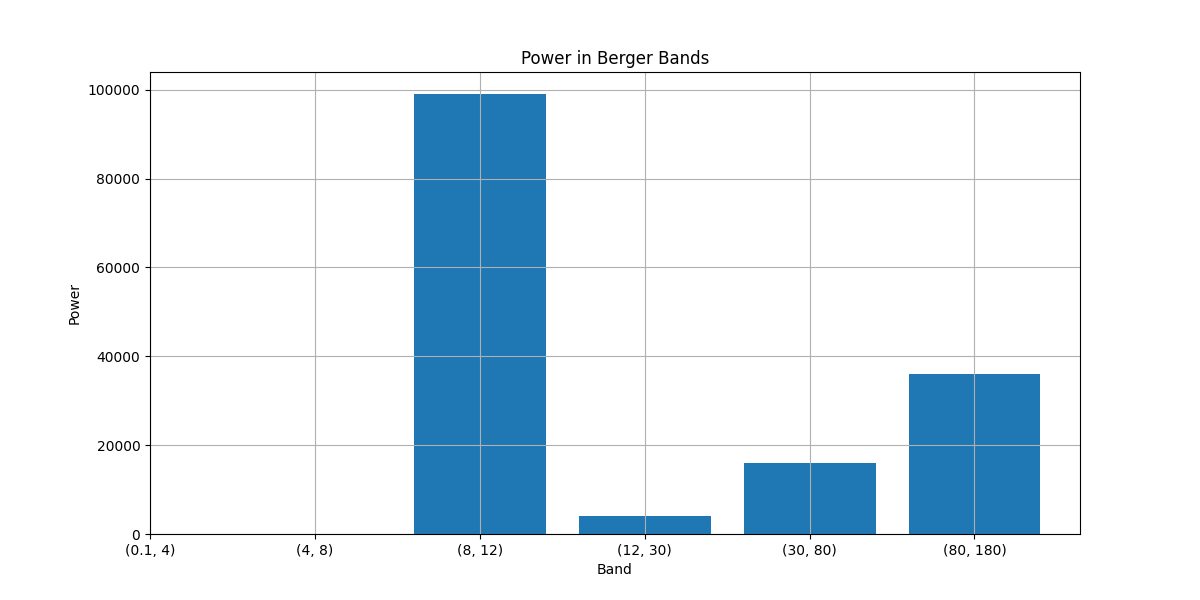
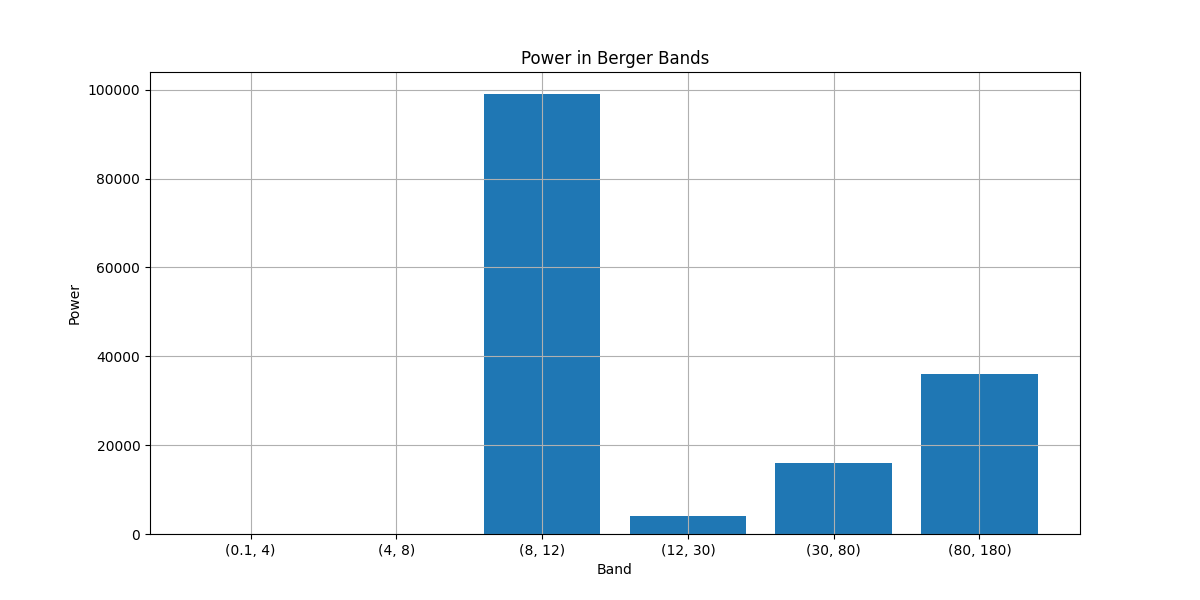
working seizure pipe

diff --git a/High_level_simulations/shiao/test_seizure_pipeline.py b/High_level_simulations/shiao/test_seizure_pipeline.py
@@ -46,6 +46,8 @@ def test_seizure_pipeline():
 
     # bbf --------------------------------------------------------------------------------------------
 
+    # note look at fix for setting inf/nan values to 0
+
     bbf_power_features = bbf(sampled_signals=sampled_signals,
                              sample_freq=sample_freq, 
                              berger_bands=berger_bands, 
@@ -55,12 +57,40 @@ def test_seizure_pipeline():
 
     xcorr_features = xcorr(sampled_signals=sampled_signals, 
           num_channels=num_channels, 
-          num_samples=num_samples, 
+          num_samples=num_samples,
           saveGraphs=True)
     
-    print(xcorr_features[0:10])
+    # data manipulation -------------------------------------------------------------------------------
 
-    # xcorr_features = xcorr()
+    fft_power_features_arr = np.array(fft_power_features)
+    bbf_power_features_arr = np.array(bbf_power_features)
+    xcorr_features_arr = np.array(xcorr_features)
+    
+    fft_features_flat = fft_power_features_arr.flatten()
+    bbf_features_flat = bbf_power_features_arr.flatten()
+    xcorr_features_flat = xcorr_features_arr.flatten()
+
+    # 312 features in one array
+    features_arr = np.concatenate((fft_features_flat, bbf_features_flat, xcorr_features_flat))
+    
+    # svm ---------------------------------------------------------------------------------------------
+
+    weights = np.random.rand(312)
+    bias = np.random.rand(1)
+    svm_output = svm(features=features_arr, 
+                     weights=weights, 
+                     bias=bias)
+
+    # thr ---------------------------------------------------------------------------------------------
+    
+    upper_bound = 1
+    lower_bound = 0
+    thr_output = thr(val=svm_output, 
+                     upper_bound=upper_bound, 
+                     lower_bound=lower_bound)
+    
+    print(thr_output)
+    print(svm_output)
 
 # sampling input ieeg signals --------------------------------------------------------------------------
 def sample_signals(num_signals, sample_window, num_samples, saveGraphs=False):
@@ -175,7 +205,11 @@ def bbf(sampled_signals, sample_freq, berger_bands, saveGraphs=False):
         for lowcut, highcut in berger_bands:
             filtered_signal = butter_bandpass_filter(samples, lowcut, highcut, sample_freq, order=5)
             power = np.sum( np.square(filtered_signal) )
+
+            if np.isinf(power) or np.isnan(power): # this is a fix
+                power = 0
             power_bands.append(power)
+
             #print(f"Power in band {lowcut}-{highcut} Hz: {np.mean(power)}")
 
         bbf_power_features.append(power_bands)
@@ -191,12 +225,49 @@ def bbf(sampled_signals, sample_freq, berger_bands, saveGraphs=False):
             plt.ylabel('Power')
             plt.grid()
             plt.savefig('plots/seizure_pipe/bbf_power_in_berger_bands.png')
+    
+    return bbf_power_features
 
 # xcorr --------------------------------------------------------------------------------------------
 def xcorr(sampled_signals, num_channels, num_samples, saveGraphs=False):
+    correlations = []
+
+    # Calculate normalized cross-correlations
+    for i in range(num_channels):
+        for j in range(i + 1, num_channels):
+            corr = np.correlate(sampled_signals[i], sampled_signals[j], mode='valid')[0]
+            norm_corr = corr #/ (num_samples * np.std(sampled_signals[i]) * np.std(sampled_signals[j]))
+            correlations.append(norm_corr)
+
+    # Convert the correlations list into a correlation matrix
+    def create_correlation_matrix(correlations, num_channels):
+        corr_matrix = np.zeros((num_channels, num_channels))
+        idx = 0
+        for i in range(num_channels):
+            for j in range(i + 1, num_channels):
+                corr_matrix[i, j] = correlations[idx]
+                idx += 1
+        corr_matrix += corr_matrix.T  # Make it symmetric
+        return corr_matrix
+    
+    if saveGraphs:
+        # Create the correlation matrix
+        corr_matrix = create_correlation_matrix(correlations, num_channels)
+
+        # Plot the correlation matrix
+        plt.figure(figsize=(10, 8))
+        sns.heatmap(corr_matrix, annot=False, fmt=".2f", cmap="coolwarm", square=True)
+        plt.title('Correlation Matrix')
+        plt.xlabel('Channel')
+        plt.ylabel('Channel')
+        plt.savefig('plots/seizure_pipe/xcorr_corr_matrix.png')
+
+    return correlations
+
+def xcorr_c(sampled_signals, num_channels, num_samples, saveGraphs=False):
 
     # NOTE: normalization would be helpful.
-
+    # seems to do weird things.
     def create_correlation_matrix(feature_vector, num_channels):
         # Initialize an empty correlation matrix
         corr_matrix = np.zeros((num_channels, num_channels))
@@ -233,7 +304,21 @@ def xcorr(sampled_signals, num_channels, num_samples, saveGraphs=False):
     # return
     return xcorr_features
 
+# svm ---------------------------------------------------------------------------------------------
+def svm(features, weights, bias):
+    # dot product of features and weights
+    wx = np.dot(features, weights)
+    # add bias
+    wxb = wx + bias
+    return wxb
    
+# thr ---------------------------------------------------------------------------------------------
+def thr(val, upper_bound, lower_bound):
+    if (val >= lower_bound) and (val <= upper_bound):
+        return 1
+    else:
+        return 0
+    
 test_seizure_pipeline()
 # note normalise all of these algorithms
 # using np.mean seems more reasonable.
